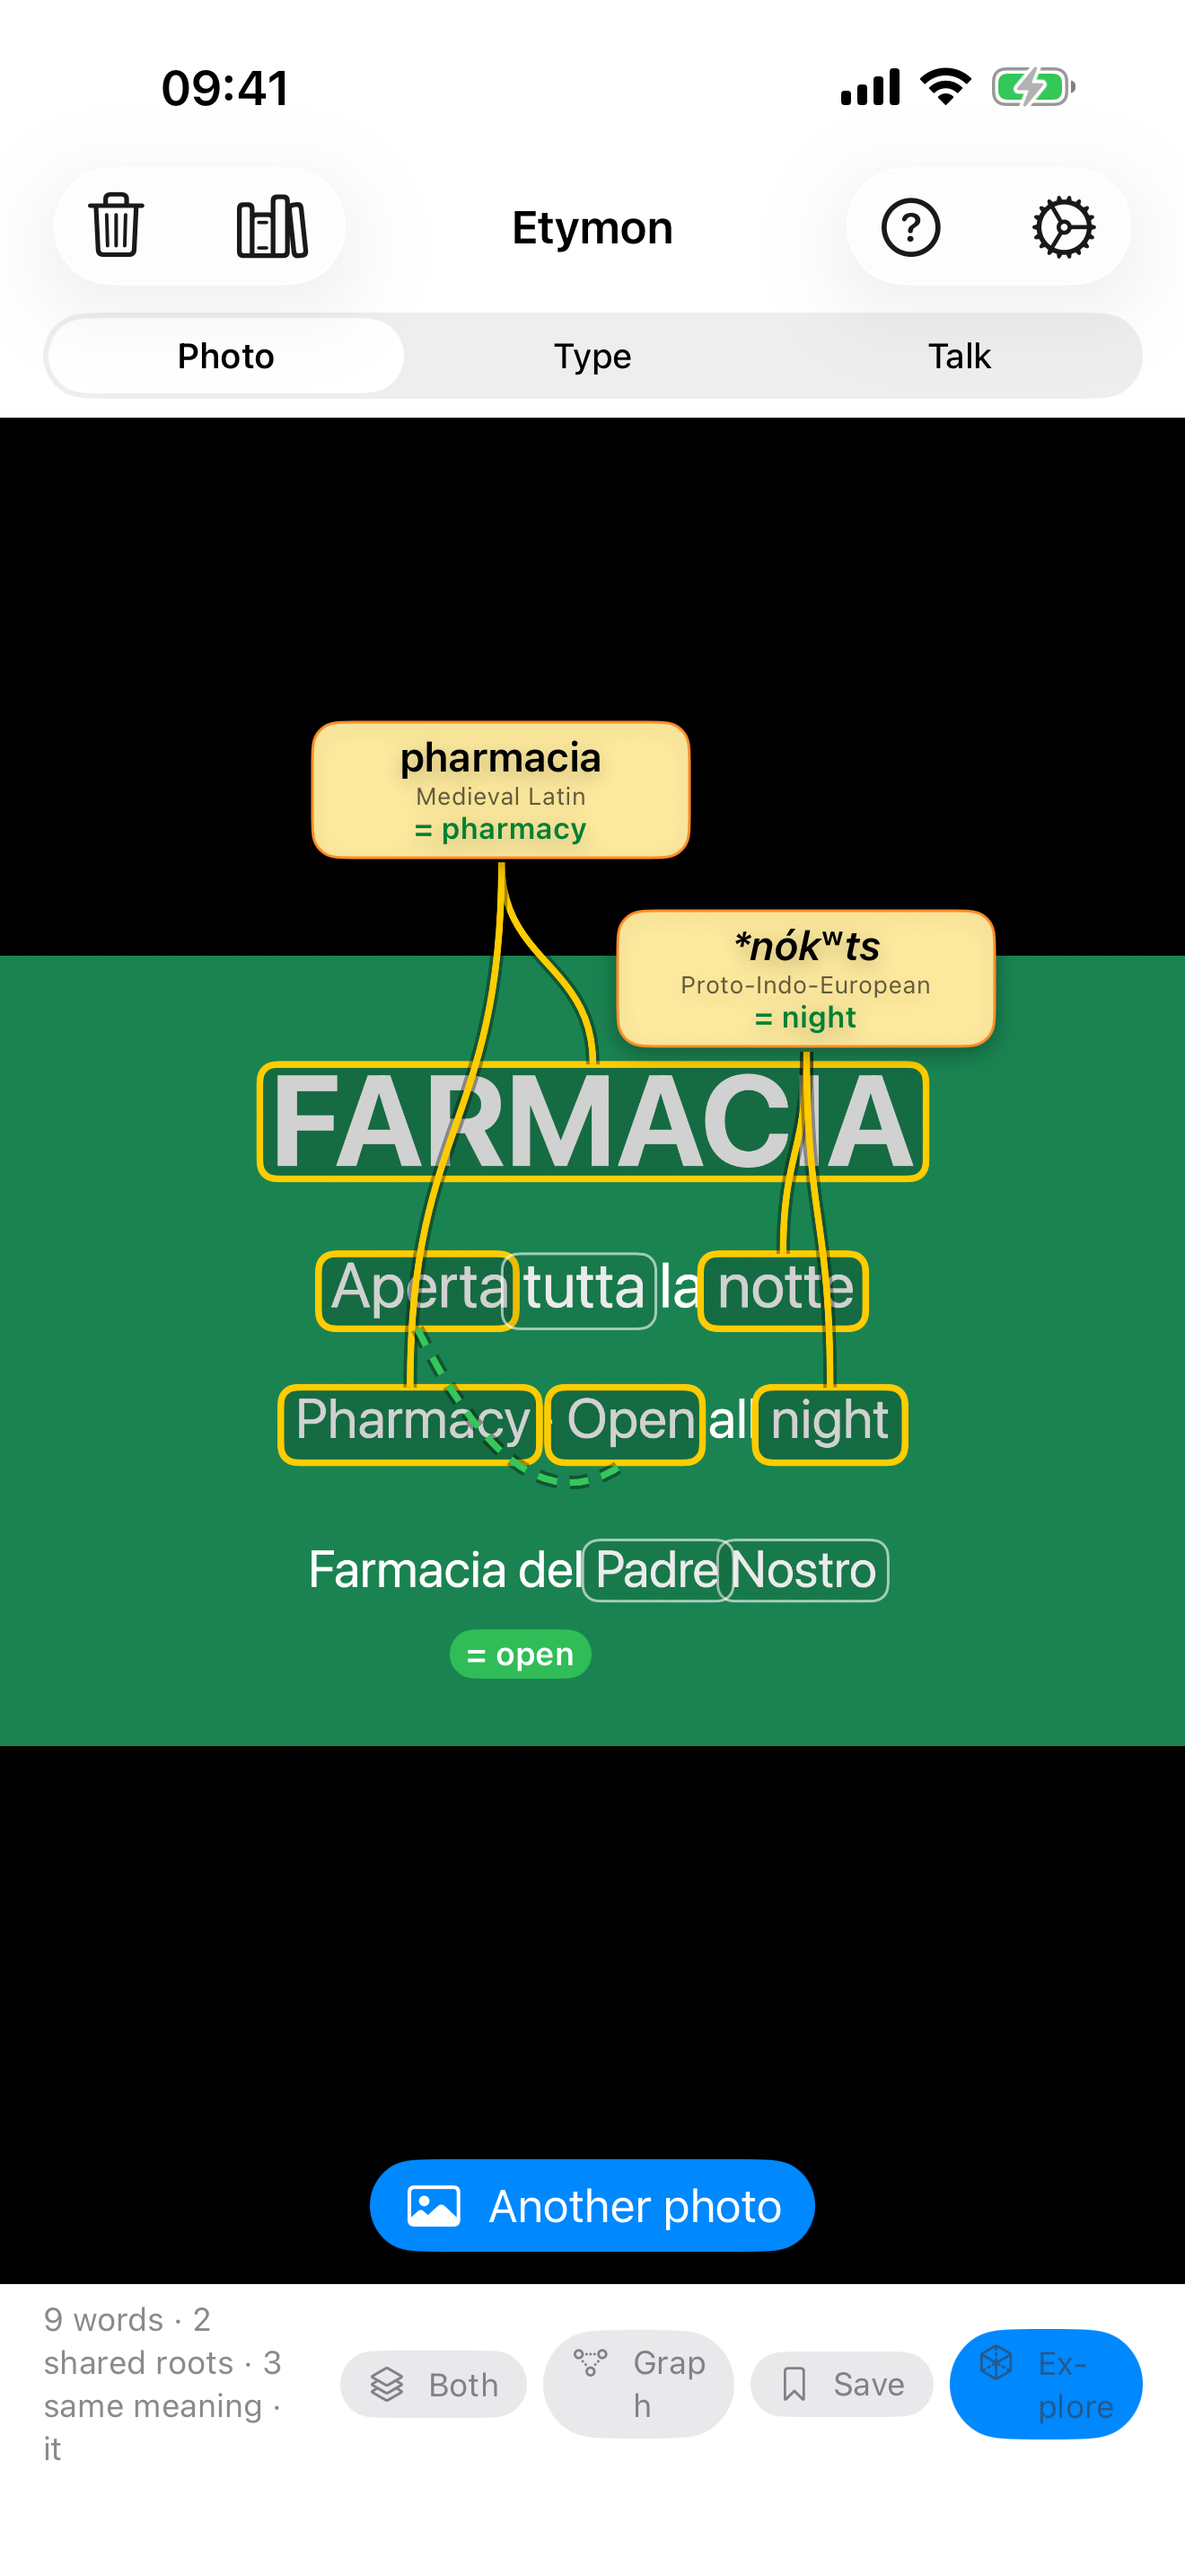
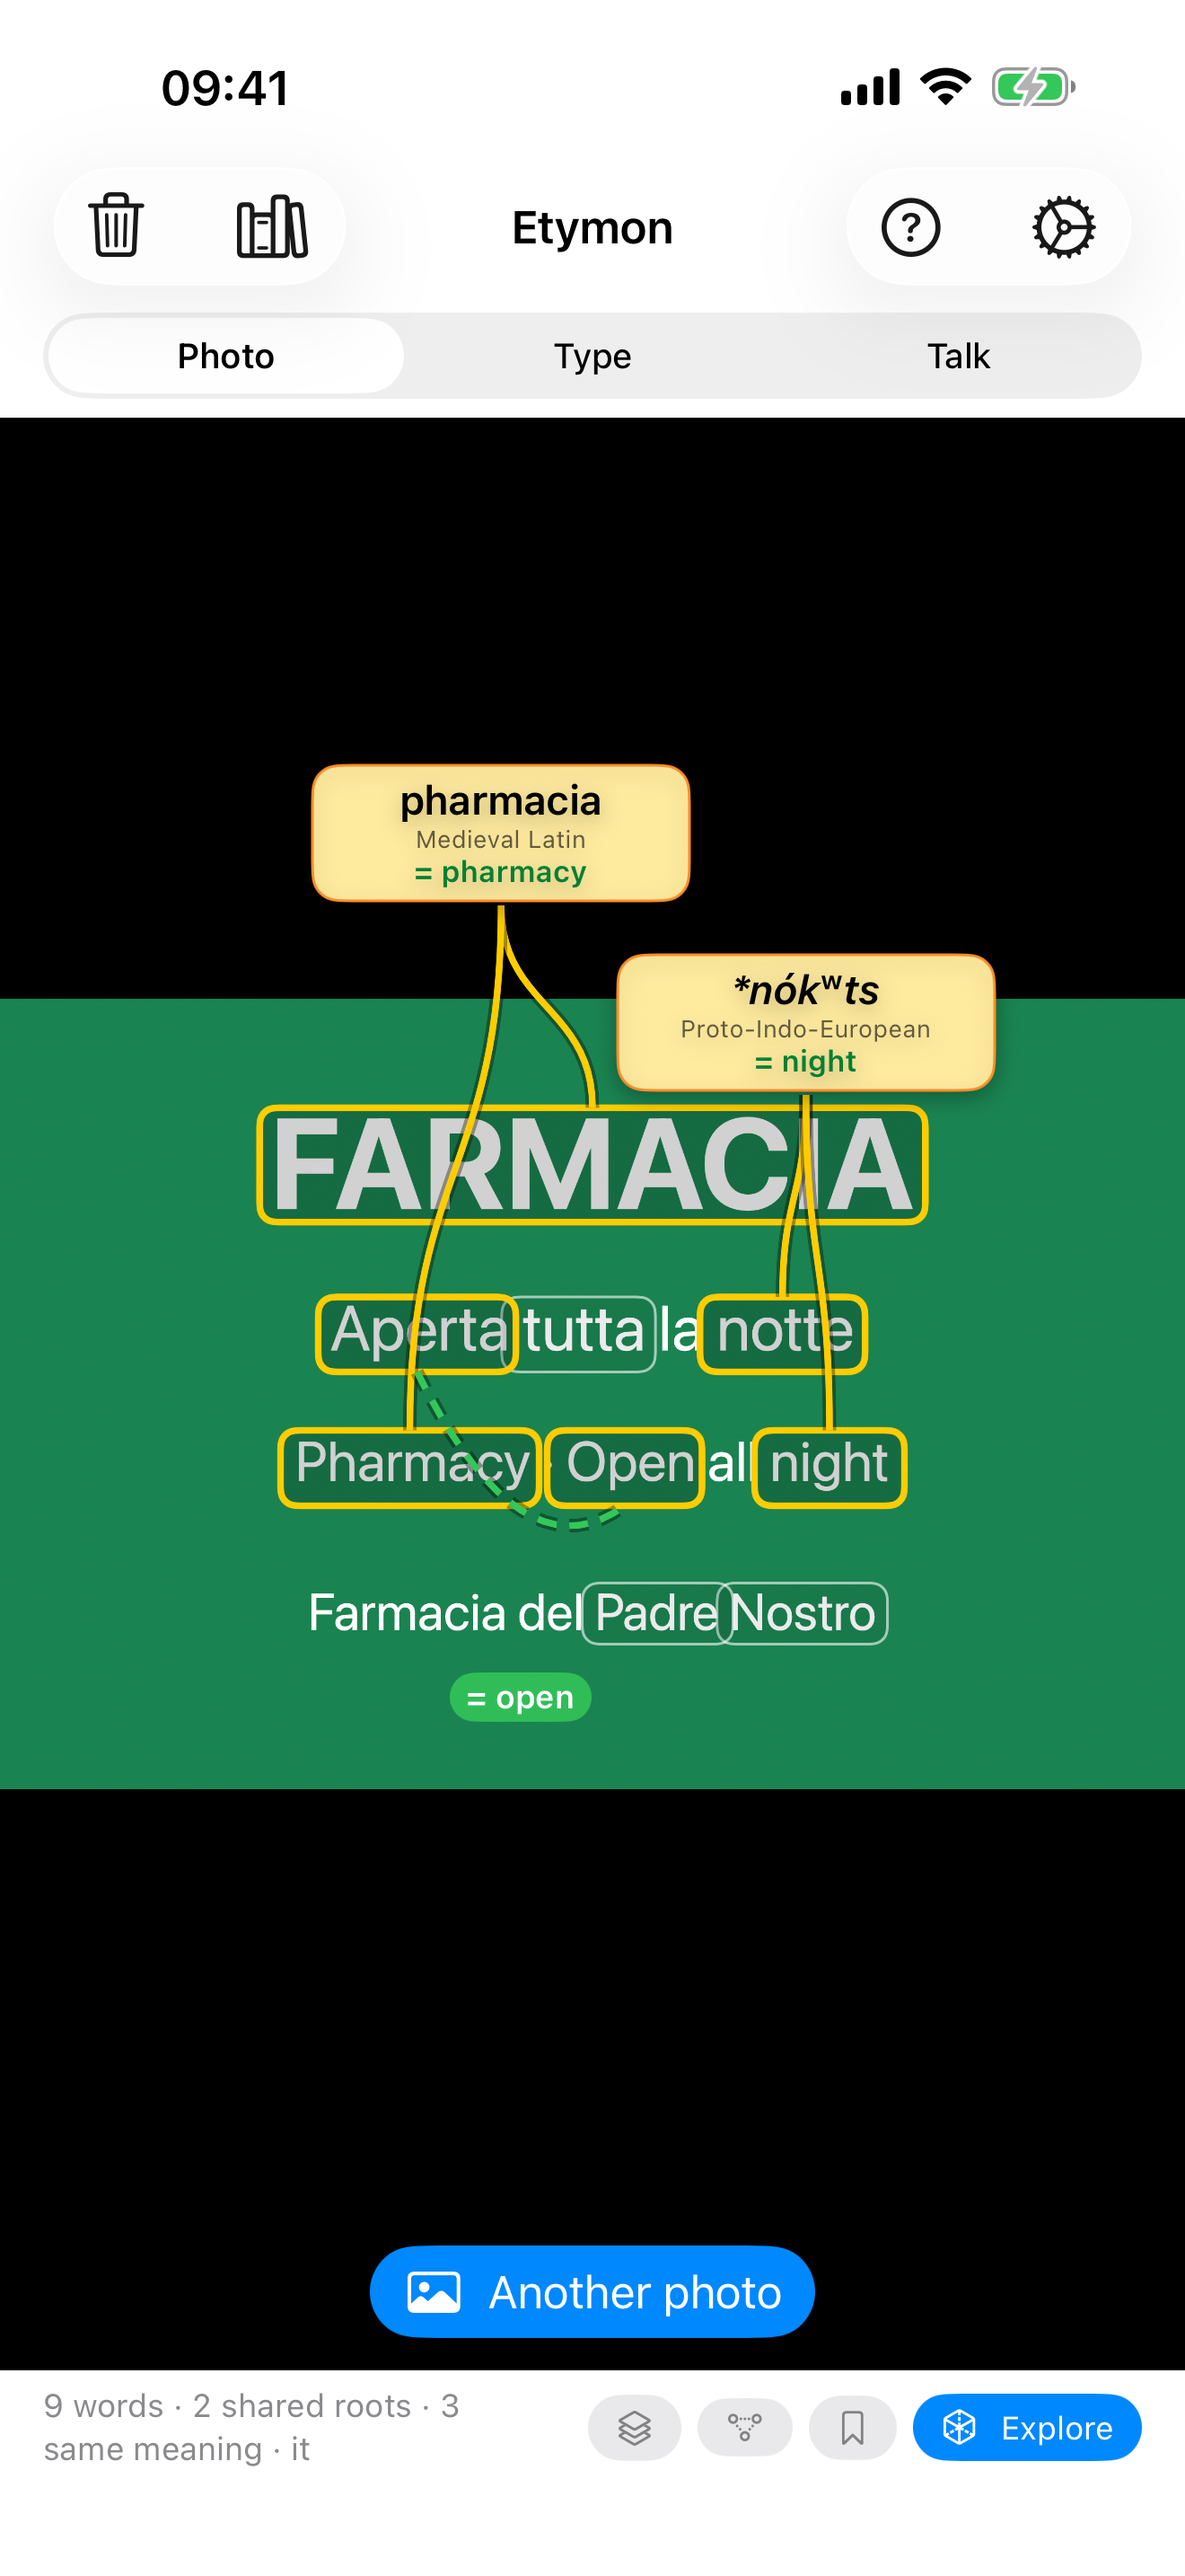
App Store page: captioned screenshots; photo bar no longer wraps; build 2
- docs/app-store/frame.py puts each screenshot under a headline (store-6.9/),
  the camera reading a sign first
- Photo's bottom bar: Layers, Graph and Save as icons, Explore readable on blue;
  the labels wrapped mid-word even on the largest iPhone
- listing.md: description typo

Changed region(s): [[0.0, 0.2793, 1.0, 0.7137], [0.0, 0.8379, 1.0, 0.962], [0.8386, 0.3724, 1.0, 0.4034]]

diff --git a/ios/Etymon/ContentView.swift b/ios/Etymon/ContentView.swift
@@ -199,24 +199,25 @@ struct ContentView: View {
                 } label: {
                     Label(layers.title, systemImage: "square.3.layers.3d")
                 }
-                .controlSize(.mini).buttonStyle(.bordered)
+                .controlSize(.mini).buttonStyle(.bordered).labelStyle(.iconOnly).fixedSize()
                 .accessibilityIdentifier("layersMenu")
             }
             if model.response != nil {
                 Button("Graph", systemImage: "point.3.connected.trianglepath.dotted") {
                     selection = .graph
                 }
-                .controlSize(.mini).buttonStyle(.bordered)
+                .controlSize(.mini).buttonStyle(.bordered).labelStyle(.iconOnly).fixedSize()
                 .accessibilityIdentifier("showGraph")
             }
             if model.response?.words.isEmpty == false {
                 Button("Save", systemImage: "bookmark") { save() }
-                    .controlSize(.mini).buttonStyle(.bordered)
+                    .controlSize(.mini).buttonStyle(.bordered).labelStyle(.iconOnly).fixedSize()
                     .accessibilityIdentifier("saveScene")
             }
             if !source.isLive, model.response?.words.isEmpty == false {
                 Button("Explore", systemImage: "cube.transparent") { explore() }
-                    .controlSize(.mini).buttonStyle(.borderedProminent)
+                    .controlSize(.mini).buttonStyle(.borderedProminent).fixedSize()
+                    .foregroundStyle(.white)
                     .accessibilityIdentifier("explore")
             }
         }

diff --git a/docs/app-store/frame.py b/docs/app-store/frame.py
@@ -1,0 +1,105 @@
+"""The App Store screenshots: each raw one in screenshots-6.9/ under a headline, into store-6.9/ (python3 frame.py; needs Pillow)."""
+import os
+import sys
+
+from PIL import Image, ImageChops, ImageDraw, ImageFilter, ImageFont
+
+SRC = os.path.join(os.path.dirname(os.path.abspath(__file__)), "screenshots-6.9")
+OUT = sys.argv[1] if len(sys.argv) > 1 else os.path.join(os.path.dirname(os.path.abspath(__file__)), "store-6.9")
+W, H = 1320, 2868
+
+SHOTS = [
+    ("2-photo.png", "Point at any sign", "See which of its words share a root, right over the picture."),
+    ("3-type-story.png", "One word, 6,000 years old", "Notte, night and nocturnal all come from Proto-Indo-European *nókʷts."),
+    ("4-talk.png", "Talk, and watch words connect", "Who said what, in which language, and where your words meet."),
+    ("5-explore-3d.png", "Walk the family tree in 3D", "Every ancestor, back to Latin, Greek and the oldest roots."),
+    ("6-map-journey.png", "Follow a word across the map", "From where it was born to the word you use today."),
+    ("7-games.png", "Play with roots", "Five word games, on your own or with up to six friends."),
+    ("1-home.png", "20 languages, on your iPhone", "No account, no ads, no tracking. Works offline."),
+]
+
+
+def serif(size):
+    f = ImageFont.truetype("/System/Library/Fonts/NewYork.ttf", size)
+    f.set_variation_by_axes([size, 640, 0])  # optical size, semibold-ish weight
+    return f
+
+
+def sans(size):
+    f = ImageFont.truetype("/System/Library/Fonts/SFNS.ttf", size)
+    try:
+        f.set_variation_by_name("Medium")
+    except Exception:
+        pass
+    return f
+
+
+def wrap(draw, text, f, width):
+    """Fewest lines that fit, then as even as possible (no lone last word)."""
+    words = text.split()
+
+    def greedy(limit):
+        lines, line = [], ""
+        for word in words:
+            trial = (line + " " + word).strip()
+            if line and draw.textlength(trial, font=f) > limit:
+                lines.append(line)
+                line = word
+            else:
+                line = trial
+        return lines + [line]
+
+    best = greedy(width)
+    lo, hi = 0, width
+    while hi - lo > 4:
+        mid = (lo + hi) / 2
+        if len(greedy(mid)) <= len(best):
+            hi = mid
+        else:
+            lo = mid
+    return greedy(hi)
+
+
+def background():
+    top, bottom = (17, 36, 86), (4, 9, 28)
+    grad = Image.linear_gradient("L").resize((W, H))
+    bg = Image.composite(Image.new("RGB", (W, H), bottom), Image.new("RGB", (W, H), top), grad)
+    glow = Image.new("RGB", (W, H), (0, 0, 0))
+    ImageDraw.Draw(glow).ellipse((W * 0.1, -300, W * 0.9, 700), fill=(110, 88, 30))
+    return ImageChops.add(bg, glow.filter(ImageFilter.GaussianBlur(200)))
+
+
+BG = background()
+os.makedirs(OUT, exist_ok=True)
+for n, (name, title, sub) in enumerate(SHOTS, 1):
+    img = BG.copy()
+    d = ImageDraw.Draw(img)
+    tf, sf = serif(116), sans(52)
+    y = 180
+    for line in wrap(d, title, tf, W - 180):
+        d.text((W / 2, y), line, font=tf, fill=(255, 255, 255), anchor="ma")
+        y += 136
+    y += 24
+    for line in wrap(d, sub, sf, W - 240):
+        d.text((W / 2, y), line, font=sf, fill=(226, 208, 158), anchor="ma")
+        y += 68
+
+    shot = Image.open(os.path.join(SRC, name)).convert("RGB")
+    sw = 1110
+    sh = int(shot.height * sw / shot.width)
+    shot = shot.resize((sw, sh), Image.LANCZOS)
+    top = y + 70
+    shot = shot.crop((0, 0, sw, min(sh, H - top)))  # the phone runs off the bottom edge
+    sh = shot.height
+    x = (W - sw) // 2
+    radius = 88
+    mask = Image.new("L", (sw, sh), 0)
+    ImageDraw.Draw(mask).rounded_rectangle((0, 0, sw, sh + radius), radius=radius, fill=255)
+    shadow = Image.new("L", (W, H), 0)
+    ImageDraw.Draw(shadow).rounded_rectangle((x, top + 24, x + sw, H + 200), radius=radius, fill=180)
+    img.paste((0, 0, 0), (0, 0), shadow.filter(ImageFilter.GaussianBlur(44)))
+    ImageDraw.Draw(img).rounded_rectangle((x - 7, top - 7, x + sw + 7, H + 200), radius=radius + 7,
+                                          fill=(64, 76, 116))
+    img.paste(shot, (x, top), mask)
+    img.save(os.path.join(OUT, f"{n}-{name.split('-', 1)[1]}"), optimize=True)
+    print(n, name, "screenshot from", top)

diff --git a/docs/app-store/listing.md b/docs/app-store/listing.md
@@ -30,7 +30,7 @@ TYPE ANYTHING
 Type or paste words and read the story of how they're related, follow a word's journey across the map from where it was born, or explore the whole tree in 3D.
 
 PLAY WITH WORDS
-• Root Chain: each word must share an ancestor with the one before. Play the app or up to six friends.
+• Root Chain: each word must share an ancestor with the one before. Play against the app or with up to six friends.
 • Impostor: three words share a root, one only looks like them. Find it.
 • Cousin Hunt and Scavenger: name, or find around you, words descended from an ancient root.
 • Birthplace: where was this word born?
